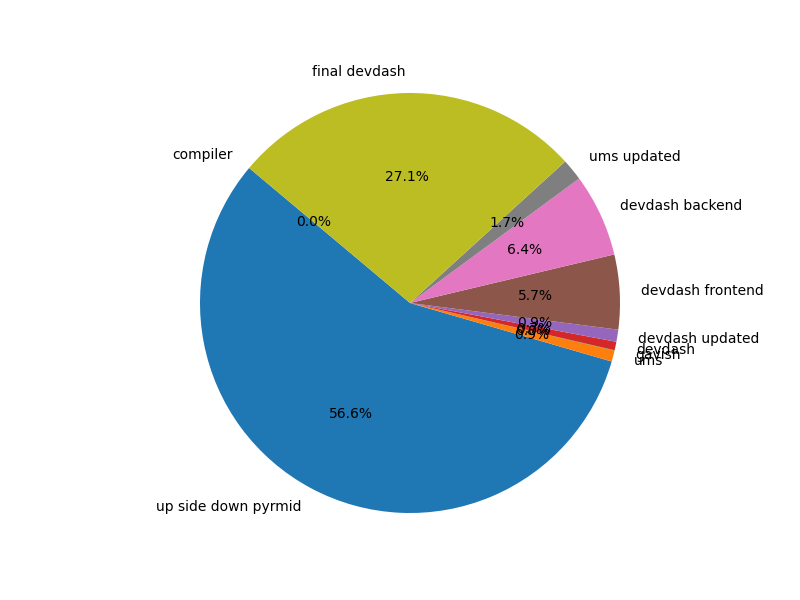
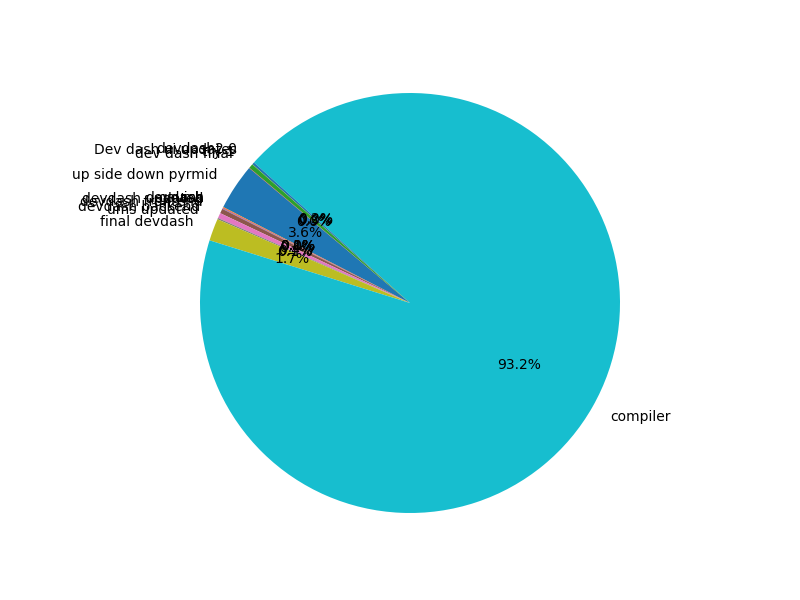
Initial push to Dev-Dash

diff --git a/templates/index.html b/templates/index.html
@@ -5,39 +5,13 @@
   <title>DevDash – Productivity Tracker</title>
   <link href="https://cdn.jsdelivr.net/npm/bootstrap@5.3.0/dist/css/bootstrap.min.css" rel="stylesheet">
   <style>
+    /* Global Styles */
     body {
       background-color: #343a40;
       color: #f8f9fa;
+      font-family: 'Arial', sans-serif;
       transition: background-color 0.3s, color 0.3s;
-    }
-    .container {
-      max-width: 900px;
-    }
-    .card {
-      margin-bottom: 15px;
-      background-color: #495057;
-      color: #f8f9fa;
-    }
-    h1 {
-      margin-top: 30px;
-      margin-bottom: 20px;
-      font-weight: 700;
-    }
-    .btn-primary {
-      background-color: #007bff;
-      border: none;
-    }
-    .btn-primary:hover {
-      background-color: #0056b3;
-    }
-    .navbar {
-      margin-bottom: 30px;
-      background-color: #212529;
-    }
-    footer {
-      margin-top: 50px;
-      text-align: center;
-      color: #888;
+      margin: 0;
     }
 
     /* Light Mode Styles */
@@ -45,14 +19,90 @@
       background-color: #f8f9fa;
       color: #212529;
     }
-    .card.light-mode {
-      background-color: #ffffff;
-      color: #212529;
+
+    .container {
+      max-width: 900px;
+      margin-top: 50px;
     }
+
+    h1 {
+      margin-bottom: 30px;
+      font-weight: 700;
+      letter-spacing: 1px;
+      text-align: center;
+    }
+
+    /* Navbar Styling */
+    .navbar {
+      background-color: #212529;
+      box-shadow: 0 4px 15px rgba(0, 0, 0, 0.1);
+      border-radius: 8px;
+      margin-bottom: 40px;
+      padding: 15px;
+      transition: background-color 0.3s;
+    }
+
     .navbar.light-mode {
       background-color: #f8f9fa;
     }
 
+    .navbar-brand {
+      font-size: 1.5em;
+      font-weight: bold;
+      color: #f8f9fa;
+    }
+
+    .btn-outline-light {
+      border-color: #f8f9fa;
+      color: #f8f9fa;
+      transition: background-color 0.3s, color 0.3s;
+    }
+
+    .btn-outline-light:hover {
+      background-color: #f8f9fa;
+      color: #212529;
+    }
+
+    /* Button Styling */
+    .btn-primary {
+      background-color: #007bff;
+      border: none;
+      transition: background-color 0.3s, box-shadow 0.3s ease;
+      border-radius: 8px;
+    }
+
+    .btn-primary:hover {
+      background-color: #0056b3;
+      box-shadow: 0 6px 15px rgba(0, 0, 0, 0.1);
+    }
+
+    /* Card Styling */
+    .card {
+      background-color: #495057;
+      color: #f8f9fa;
+      border-radius: 10px;
+      box-shadow: 0 4px 10px rgba(0, 0, 0, 0.1);
+      transition: transform 0.3s ease, box-shadow 0.3s ease;
+      margin-bottom: 30px;
+      padding: 20px;
+    }
+
+    .card:hover {
+      transform: translateY(-5px);
+      box-shadow: 0 6px 15px rgba(0, 0, 0, 0.15);
+    }
+
+    .card.light-mode {
+      background-color: #ffffff;
+      color: #212529;
+    }
+
+    footer {
+      margin-top: 50px;
+      text-align: center;
+      color: #888;
+      font-size: 0.9em;
+    }
   </style>
 </head>
 <body class="dark-mode">
@@ -63,13 +113,13 @@
     <div>
       <a class="btn btn-outline-light me-2" href="/">Dashboard</a>
       <a class="btn btn-outline-light" href="/analytics">Analytics</a>
-      <button class="btn btn-outline-light" id="modeToggle">🌙 Light Mode</button>
+      <button class="btn" id="modeToggle">🌙 Light Mode</button>
     </div>
   </div>
 </nav>
 
 <div class="container">
-  <h1 class="text-center">🧠 DevDash - Productivity Tracker</h1>
+  <h1>🧠 DevDash - Productivity Tracker</h1>
 
   <!-- Start Session Form -->
   <div class="card shadow-sm">
@@ -86,6 +136,18 @@
         </div>
         <button type="submit" class="btn btn-primary">Start Session</button>
       </form>
+    </div>
+  </div>
+
+  <!-- Achievements Section -->
+  <div class="card shadow-sm">
+    <div class="card-body">
+      <h5 class="card-title">🏆 Achievements</h5>
+      <ul class="list-unstyled">
+        <li>🌟 Completed 10 sessions</li>
+        <li>🎯 Contributed 50 Git commits</li>
+        <li>💪 Logged over 100 hours of productive work</li>
+      </ul>
     </div>
   </div>
 
@@ -106,11 +168,7 @@
         {% else %}
         <div>
           <strong>⏱ Session Timer:</strong>
-          <span id="timer-{{ session.id }}" data-seconds="0" data-active-session="true" data-session-id="{{ session.id }}">00:00:00</span>
-        </div>
-        <div class="mt-2">
-          <button type="button" class="btn btn-success start-timer-btn" data-session-id="{{ session.id }}">Start Timer</button>
-          <button type="button" class="btn btn-warning stop-timer-btn" data-session-id="{{ session.id }}">Stop Timer</button>
+          <span id="timer-{{ session.id }}" class="timer" data-seconds="0" data-active-session="true" data-session-id="{{ session.id }}">00:00:00</span>
         </div>
         <form method="POST" action="/end" class="mt-3">
           <input type="hidden" name="session_id" value="{{ session.id }}">
@@ -132,16 +190,59 @@
 </footer>
 
 <script>
+  const timers = {};
+
+  function formatTime(seconds) {
+    const hrs = String(Math.floor(seconds / 3600)).padStart(2, '0');
+    const mins = String(Math.floor((seconds % 3600) / 60)).padStart(2, '0');
+    const secs = String(seconds % 60).padStart(2, '0');
+    return `${hrs}:${mins}:${secs}`;
+  }
+
+  function startTimer(sessionId) {
+    const span = document.getElementById(`timer-${sessionId}`);
+    let seconds = parseInt(span.getAttribute("data-seconds")) || 0;
+
+    if (timers[sessionId]) return; // Prevent duplicates
+
+    timers[sessionId] = setInterval(() => {
+      seconds++;
+      span.setAttribute("data-seconds", seconds);
+      span.textContent = formatTime(seconds);
+      span.classList.add("running");
+    }, 1000);
+  }
+
+  function stopTimer(sessionId) {
+    if (timers[sessionId]) {
+      clearInterval(timers[sessionId]);
+      delete timers[sessionId];
+    }
+  }
+
+  // Auto-start timers for active sessions
+  document.querySelectorAll("span[data-active-session='true']").forEach(el => {
+    const sessionId = el.getAttribute("data-session-id");
+    startTimer(sessionId);
+  });
+
+  // Auto-stop timer on end form submit
+  document.querySelectorAll("form[action='/end']").forEach(form => {
+    form.addEventListener('submit', (e) => {
+      const sessionId = form.querySelector("input[name='session_id']").value;
+      stopTimer(sessionId);
+    });
+  });
+
+  // Light/Dark Mode Toggle
   const modeToggle = document.getElementById('modeToggle');
   modeToggle.addEventListener('click', () => {
     document.body.classList.toggle('light-mode');
     document.querySelectorAll('.card').forEach(el => el.classList.toggle('light-mode'));
     document.querySelectorAll('.navbar').forEach(el => el.classList.toggle('light-mode'));
-    if (document.body.classList.contains('light-mode')) {
-      modeToggle.textContent = "🌙 Dark Mode";
-    } else {
-      modeToggle.textContent = "🌙 Light Mode";
-    }
+    modeToggle.textContent = document.body.classList.contains('light-mode')
+      ? "🌙 Dark Mode"
+      : "🌙 Light Mode";
   });
 </script>
 

diff --git a/app.py b/app.py
@@ -6,6 +6,8 @@ import os
 import time
 import threading
 import webbrowser
+import logging
+from sqlalchemy.exc import SQLAlchemyError
 
 # Initialize Flask app
 app = Flask(__name__)
@@ -16,6 +18,9 @@ app.config['SQLALCHEMY_TRACK_MODIFICATIONS'] = False
 
 # Initialize the database
 db = SQLAlchemy(app)
+
+# Logging configuration
+logging.basicConfig(level=logging.INFO, format='%(asctime)s - %(levelname)s - %(message)s')
 
 # Database model for sessions
 class Session(db.Model):
@@ -52,14 +57,19 @@ def index():
 def start_session():
     project_name = request.form['project_name']
     notes = request.form.get('notes', '')
+    
+    if not project_name:
+        return "Project name is required", 400  # Ensure project name is provided
+    
     new_session = Session(project_name=project_name, notes=notes)
-
+    
     try:
         db.session.add(new_session)
         db.session.commit()
         return redirect(url_for('index'))
-    except:
-        return "There was an issue starting the session."
+    except SQLAlchemyError as e:
+        logging.error(f"Database error: {e}")
+        return "There was an issue starting the session.", 500
 
 # Route to end a session
 @app.route('/end', methods=['POST'])
@@ -69,17 +79,19 @@ def end_session():
 
     session.end_time = datetime.datetime.utcnow()
     session.duration = (session.end_time - session.start_time).total_seconds() / 60  # in minutes
-    git_commits_raw = request.form.get('git_commits', '0')
+    
     try:
-        session.git_commits = int(git_commits_raw or 0)
+        git_commits_raw = request.form.get('git_commits', '0')
+        session.git_commits = int(git_commits_raw) if git_commits_raw.isdigit() else 0
     except ValueError:
         session.git_commits = 0
 
     try:
         db.session.commit()
         return redirect(url_for('index'))
-    except:
-        return "There was an issue ending the session."
+    except SQLAlchemyError as e:
+        logging.error(f"Database error: {e}")
+        return "There was an issue ending the session.", 500
 
 # Route to refresh and view all sessions
 @app.route('/refresh')
@@ -95,7 +107,7 @@ def analytics():
     if not sessions:
         return render_template('analytics.html', no_data=True)
 
-    total_duration = sum(s.duration for s in sessions if s.duration)
+    total_duration = sum(s.duration for s in sessions if s.duration) or 0
     durations = [s.duration for s in sessions if s.duration is not None]
     avg_duration = total_duration / len(durations) if durations else 0
     total_commits = sum(s.git_commits for s in sessions if s.git_commits is not None)
@@ -113,20 +125,25 @@ def analytics():
     plt.figure(figsize=(8, 6))
     plt.pie(sizes, labels=labels, autopct='%1.1f%%', startangle=140)
     plt.axis('equal')
+    
     chart_path = os.path.join('static', 'project_distribution.png')
-    plt.savefig(chart_path)
-    plt.close()
+    try:
+        plt.savefig(chart_path)
+        plt.close()
+    except Exception as e:
+        logging.error(f"Error generating pie chart: {e}")
+        chart_path = None
 
     return render_template(
         'analytics.html',
-        total_duration=total_duration or 0,
-        avg_duration=avg_duration or 0,
-        total_commits=total_commits or 0,
+        total_duration=total_duration,  # Ensure total_duration is always valid
+        avg_duration=avg_duration,
+        total_commits=total_commits,
         chart_path=chart_path,
         no_data=False,
-        project_names=labels if labels is not None else [],
-        project_times=sizes if sizes is not None else [],
-        durations=durations if durations is not None else []
+        project_names=labels,
+        project_times=sizes,
+        durations=durations
     )
 
 # Start the Flask server
